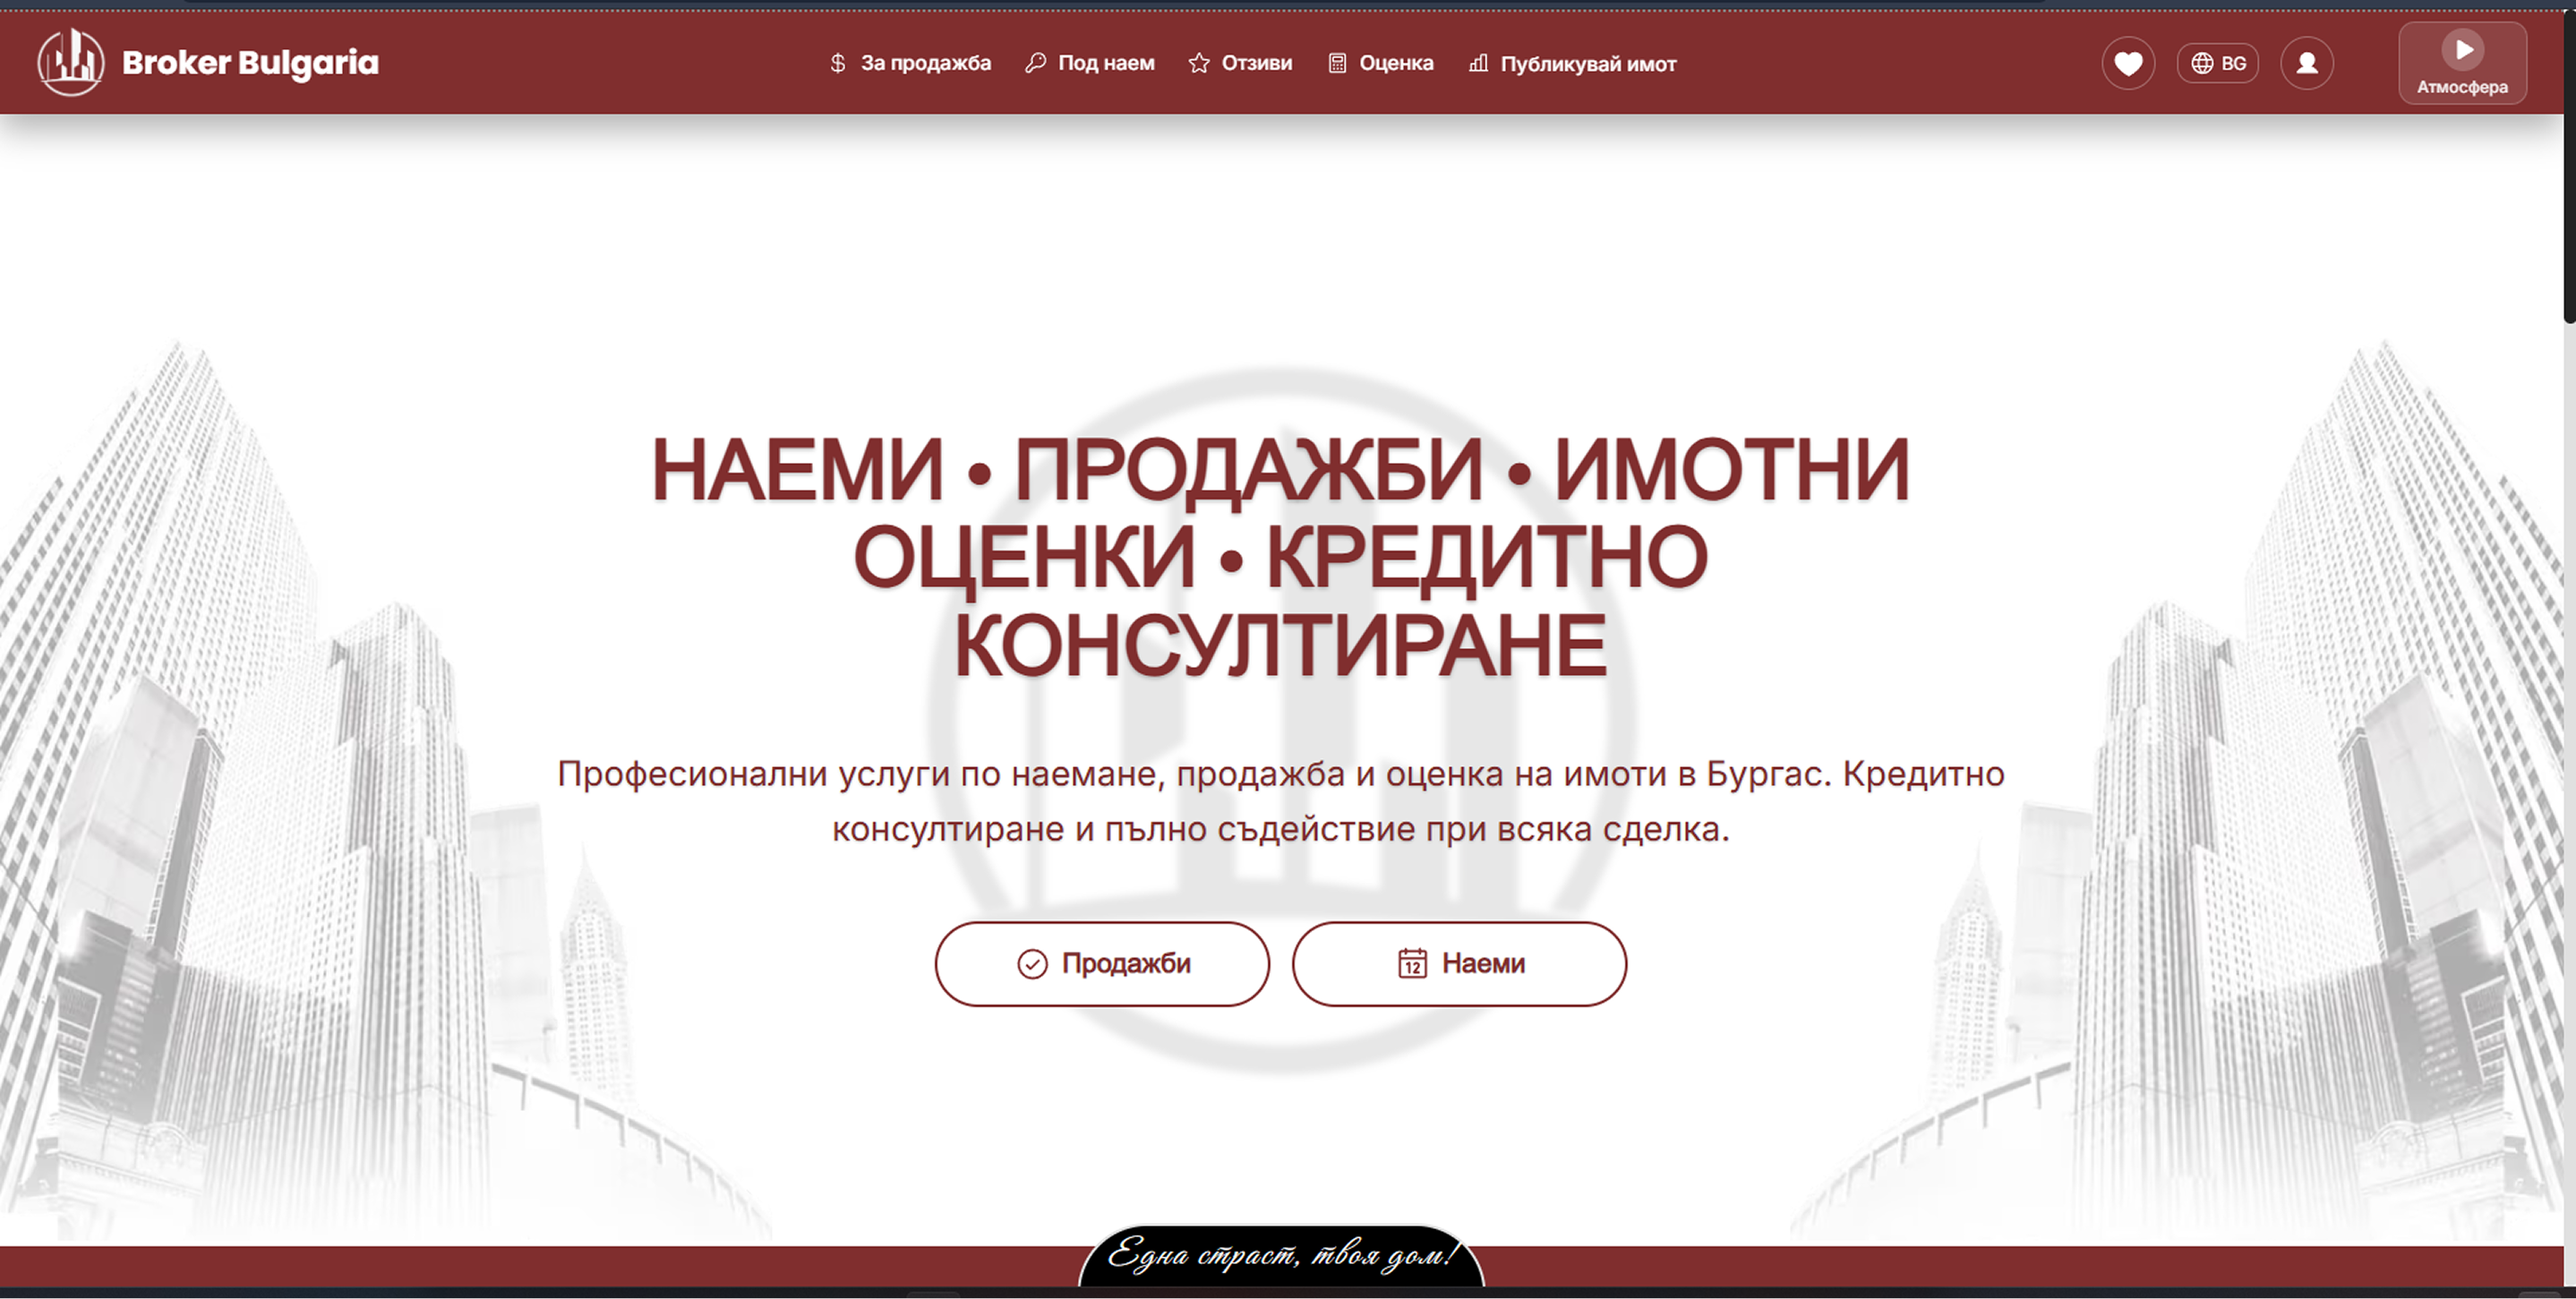
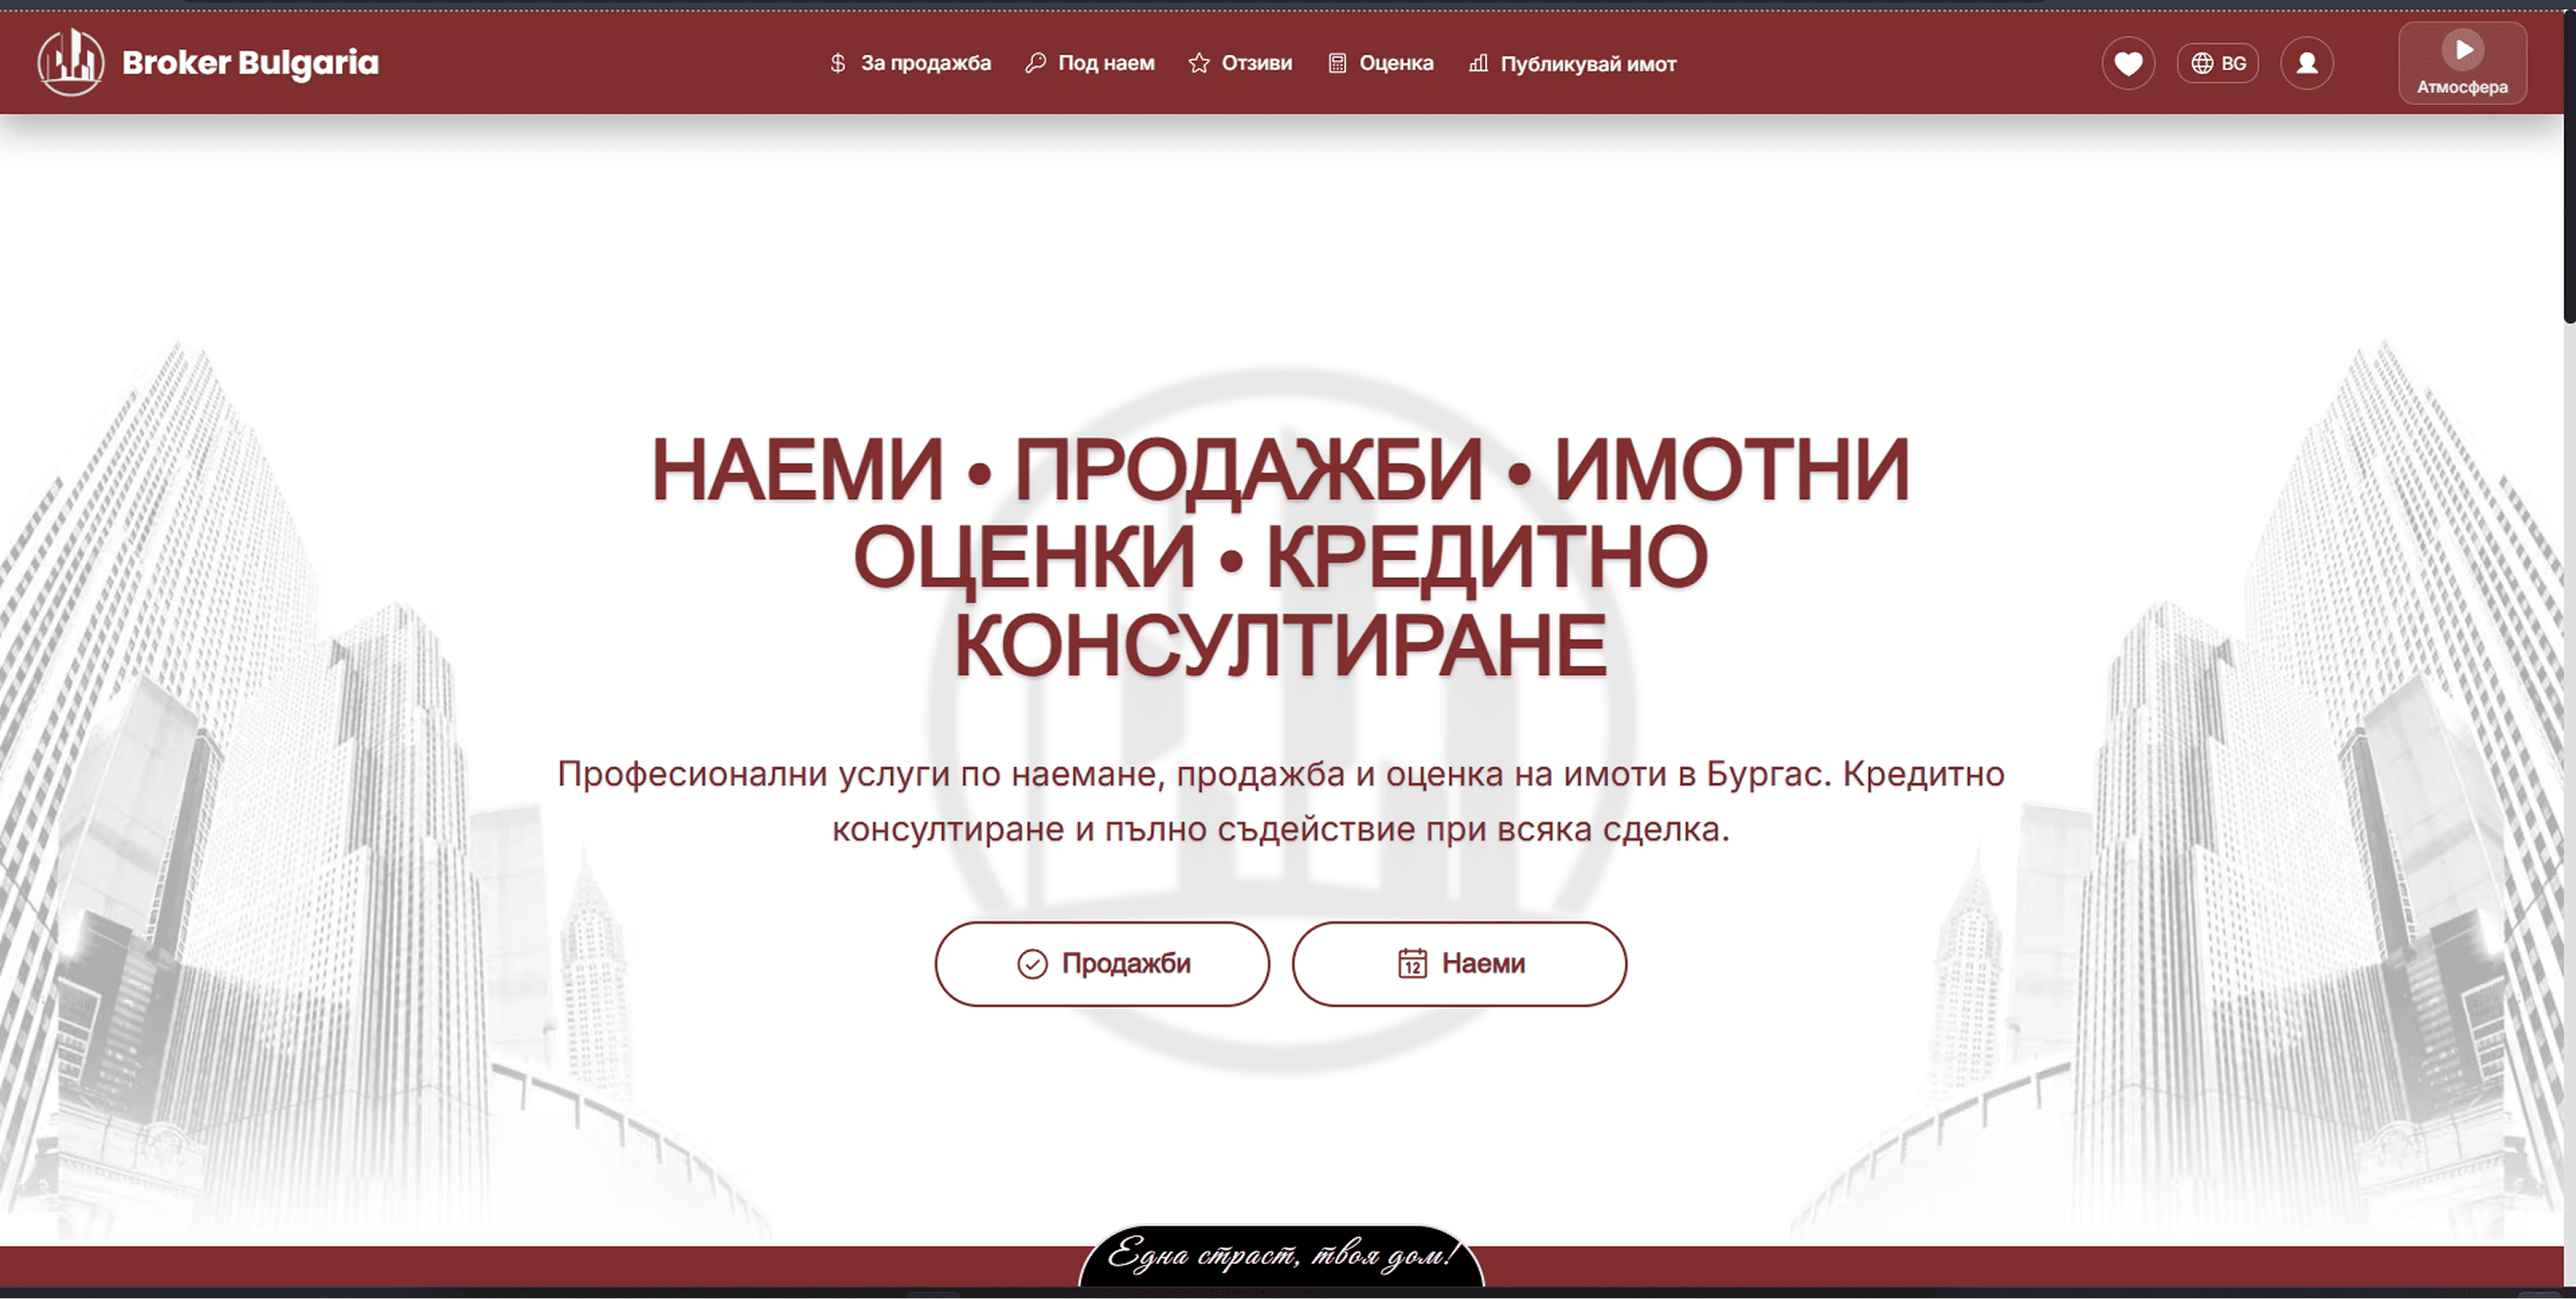
improvements

diff --git a/src/app/globals.scss b/src/app/globals.scss
@@ -151,166 +151,6 @@ body {
 }
 
 
-
-
-
-
-// Light mode support
-@media (prefers-color-scheme: light) {
-  :root {
-    --background: var(--light-background);
-    --background-secondary: var(--light-background-secondary);
-    --foreground: var(--light-foreground);
-    --muted: var(--light-muted);
-    --primary: var(--light-primary);
-    --secondary: var(--light-secondary);
-    --accent: var(--light-accent);
-    --card-bg: var(--light-card-bg);
-    --border: var(--light-border);
-    --text-muted: var(--light-text-muted);
-    --slate-dark: var(--light-slate-dark);
-  }
-}
-
-
-
-
-@keyframes digitalPulse {
-  0%, 100% {
-    opacity: 0.6;
-    transform: scale(1);
-  }
-  33% {
-    opacity: 0.8;
-    transform: scale(1.02);
-  }
-  66% {
-    opacity: 0.7;
-    transform: scale(0.98);
-  }
-}
-
-// Typography System Implementation - Optimized Hierarchy
-h1 {
-  font-family: $font-rubik;
-  font-weight: $font-weight-bold;
-  font-size: $font-size-6xl;
-  line-height: $line-height-tight;
-  letter-spacing: $letter-spacing-tight;
-  color: var(--color-text);
-}
-
-h2 {
-  font-family: $font-rubik;
-  font-weight: $font-weight-bold;
-  font-size: $font-size-4xl;
-  line-height: $line-height-snug;
-  letter-spacing: $letter-spacing-normal;
-  color: var(--color-text);
-}
-
-h3 {
-  font-family: $font-rubik;
-  font-weight: $font-weight-semibold;
-  font-size: $font-size-2xl;
-  line-height: $line-height-snug;
-  letter-spacing: $letter-spacing-normal;
-  color: var(--color-text);
-}
-
-h4 {
-  font-family: $font-rubik;
-  font-weight: $font-weight-semibold;
-  font-size: $font-size-xl;
-  line-height: $line-height-snug;
-  color: var(--color-text);
-}
-
-p {
-  font-family: $font-satoshi;
-  font-weight: $font-weight-normal;
-  font-size: $font-size-base;
-  line-height: $line-height-normal;
-  color: var(--color-text);
-  margin-bottom: 1rem;
-}
-
-small, .meta {
-  font-family: $font-satoshi;
-  font-weight: $font-weight-normal;
-  font-size: $font-size-sm;
-  line-height: $line-height-normal;
-  color: var(--color-text-muted);
-}
-
-.cta, .logo {
-  font-family: $font-rubik;
-  font-weight: $font-weight-semibold;
-}
-
-// Typography utility classes
-.font-rubik {
-  font-family: $font-rubik;
-}
-
-.font-satoshi {
-  font-family: $font-satoshi;
-}
-
-.font-light {
-  font-weight: $font-weight-light;
-}
-
-.font-normal {
-  font-weight: $font-weight-normal;
-}
-
-.font-medium {
-  font-weight: $font-weight-medium;
-}
-
-.font-semibold {
-  font-weight: $font-weight-semibold;
-}
-
-.font-bold {
-  font-weight: $font-weight-bold;
-}
-
-// Digital Pulse Utility Classes
-.neon-glow {
-  box-shadow: 
-    0 0 5px currentColor,
-    0 0 10px currentColor,
-    0 0 15px currentColor,
-    0 0 20px currentColor;
-}
-
-.yellow-glow {
-  box-shadow: 0 0 20px rgba(255, 214, 68, 0.4);
-}
-
-.blue-glow {
-  box-shadow: 0 0 20px rgba(93, 183, 255, 0.4);
-}
-
-.green-glow {
-  box-shadow: 0 0 20px rgba(124, 255, 178, 0.4);
-}
-
-.green-accent-glow {
-  box-shadow: 0 0 20px rgba(16, 185, 129, 0.4);
-}
-
-.luminous-border {
-  border: 1px solid;
-  border-image: linear-gradient(45deg, $color-blue, $color-green, $color-yellow) 1;
-}
-
-.digital-pulse {
-  animation: digitalPulse 2s ease-in-out infinite;
-}
-
 // Global text selection
 ::selection {
   background: #8B5CF6; // purple selection background
@@ -326,186 +166,6 @@ small, .meta {
 * {
   transition: all 0.3s ease;
 }
-
-// Glow effects
-.glow-blue {
-  box-shadow: 0 0 20px rgba(37, 99, 235, 0.3);
-}
-
-.glow-yellow {
-  box-shadow: 0 0 20px rgba(250, 204, 21, 0.3);
-}
-
-.glow-green {
-  box-shadow: 0 0 20px rgba(16, 185, 129, 0.3);
-}
-
-// Utility classes
-.container {
-  max-width: 1200px;
-  margin: 0 auto;
-  padding: 0 2rem;
-}
-
-.section {
-  padding: 6rem 0;
-}
-
-.section-sm {
-  padding: 4rem 0;
-}
-
-.text-center {
-  text-align: center;
-}
-
-.text-left {
-  text-align: left;
-}
-
-.text-right {
-  text-align: right;
-}
-
-.flex {
-  display: flex;
-}
-
-.flex-col {
-  flex-direction: column;
-}
-
-.items-center {
-  align-items: center;
-}
-
-.justify-center {
-  justify-content: center;
-}
-
-.justify-between {
-  justify-content: space-between;
-}
-
-.gap-1 {
-  gap: 0.5rem;
-}
-
-.gap-2 {
-  gap: 1rem;
-}
-
-.gap-3 {
-  gap: 1.5rem;
-}
-
-.gap-4 {
-  gap: 2rem;
-}
-
-.w-full {
-  width: 100%;
-}
-
-.h-full {
-  height: 100%;
-}
-
-.min-h-screen {
-  min-height: 100vh;
-}
-
-.relative {
-  position: relative;
-}
-
-.absolute {
-  position: absolute;
-}
-
-.fixed {
-  position: fixed;
-}
-
-.z-10 {
-  z-index: 10;
-}
-
-.z-50 {
-  z-index: 50;
-}
-
-.z-1000 {
-  z-index: 1000;
-}
-
-.overflow-hidden {
-  overflow: hidden;
-}
-
-.rounded {
-  border-radius: 0.5rem;
-}
-
-.rounded-lg {
-  border-radius: 1rem;
-}
-
-.rounded-xl {
-  border-radius: 1.5rem;
-}
-
-.rounded-full {
-  border-radius: 50%;
-}
-
-.border {
-  border: 1px solid $border;
-}
-
-.border-2 {
-  border: 2px solid $border;
-}
-
-.cursor-pointer {
-  cursor: pointer;
-}
-
-.select-none {
-  user-select: none;
-}
-
-// Responsive utilities
-@media (max-width: 768px) {
-  .container {
-    padding: 0 1rem;
-  }
-  
-  .section {
-    padding: 4rem 0;
-  }
-  
-  .flex-col-mobile {
-    flex-direction: column;
-  }
-  
-  .text-center-mobile {
-    text-align: center;
-  }
-}
-
-@media (max-width: 480px) {
-  .container {
-    padding: 0 0.5rem;
-  }
-  
-  .section {
-    padding: 3rem 0;
-  }
-}
-
-
-
 
 // Standard cursor behavior
 button, a, input, textarea, select, [role="button"] {

diff --git a/src/components/Hero.tsx b/src/components/Hero.tsx
@@ -87,7 +87,7 @@ const Hero = memo(() => {
         {/* Hero Initial Picture - shows until video loads */}
         {!videoLoaded && !videoError && (
           <Image
-            src="/Hero Initial Picture.png"
+            src="/Hero Initial Picture.webp"
             alt="Ruslan Nikolov - Frontend Developer"
             fill
             priority={true}

diff --git a/next.config.ts b/next.config.ts
@@ -22,10 +22,9 @@ const nextConfig: NextConfig = {
     contentSecurityPolicy: "default-src 'self'; script-src 'none'; sandbox;",
   },
 
-  // Compression and performance
-  compress: true,
+  // // Compression and performance
+  // compress: true,
   
-  // Headers for caching static assets
   // async headers() {
   //   return [
   //     {

diff --git a/src/components/About.tsx b/src/components/About.tsx
@@ -52,7 +52,7 @@ const About = memo(() => {
           viewport={{ once: true }}
         >
           <motion.img
-            src="/Ruslan Laptop Looking.jpg"
+            src="/Ruslan Profile.webp"
             alt="Ruslan Nikolov working on laptop"
             className={styles.profileImg}
           />

diff --git a/src/app/page.tsx b/src/app/page.tsx
@@ -85,8 +85,6 @@ export default function Home() {
         <SkillsLazy />
         </motion.section>
 
-        {/* Dragons image moved into About header */}
-        
         <motion.section
           id="about"
           aria-label="About section"
